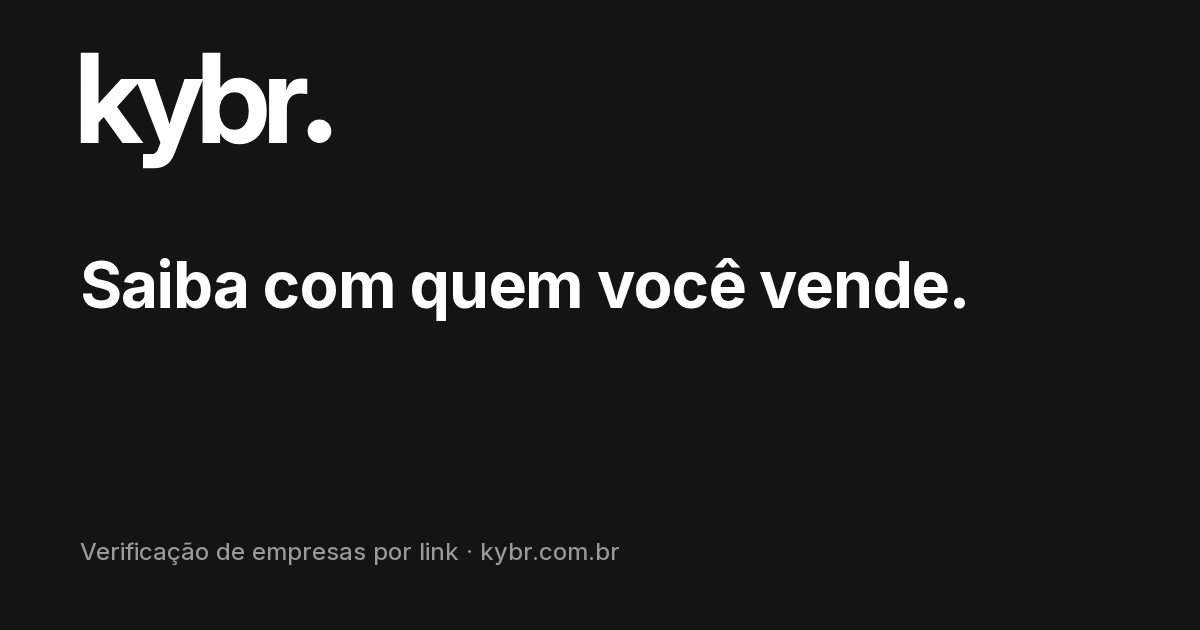
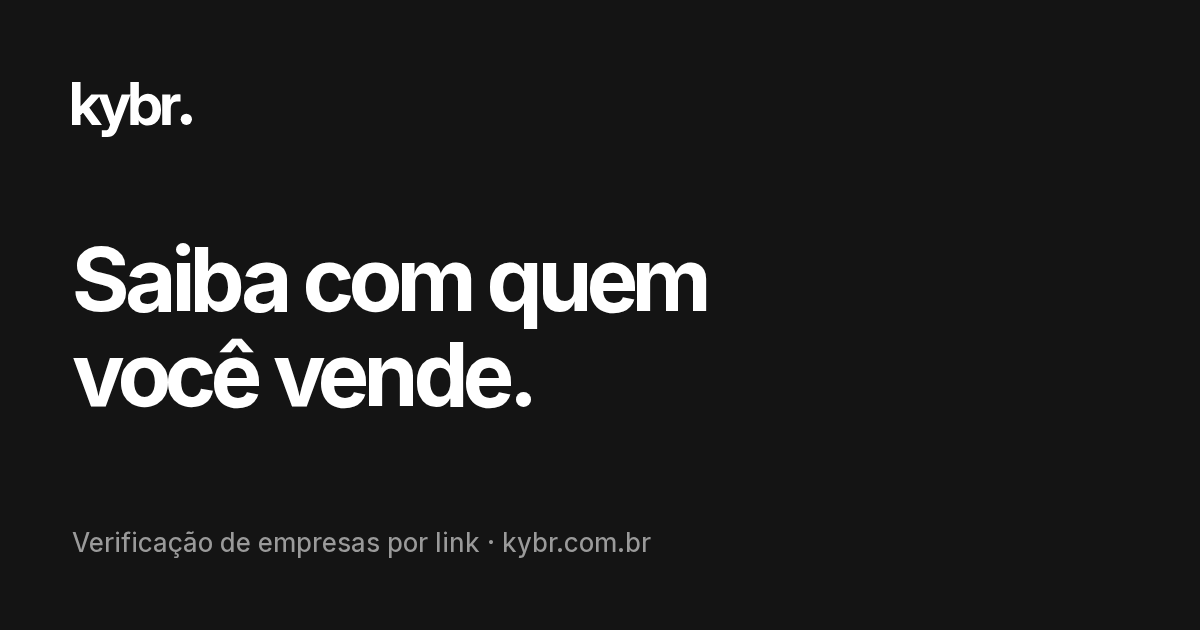
style: re-render the share image to the Aplicações board's hierarchy
Review B-002 (the user's decision: re-render to match the board). The
headline now dominates and the wordmark is a small mark, as on the
Aplicações board's "Imagem de compartilhamento · 1200×630".

- public/brand/kybr-og-1200x630.png (30.4 kB; was 24.9): ink #141414; the
  white wordmark at 120 px wide (≈ 10 % of the card, the board's
  proportion), glyph-tight at x = 72, y = 82; "Saiba com quem / você
  vende." as Display (Inter 700) on two lines, 88 px, -6 % tracking, line
  height 1.08; "Verificação de empresas por link · kybr.com.br" in dark
  muted #9a9a9a, 26 px, 72 px from the bottom. Same fallback render as B3
  (the repo's Inter woff2 and the kit's wordmark SVG recoloured white,
  screenshotted with Playwright at 1200 × 630); only the PNG is committed.
  kybr-logo/ still has no exported share image.
- tests/share-image-file.test.ts: the file is a 1200 × 630 PNG of at most
  60 kB (green before and after; it guards the target the lead set).
- The path, size and metadata are unchanged.

Convention citations:
- identity.md › Applications › Share image; the Aplicações and Tipografia
  boards (Display 700, tight tracking, two lines)

Tests: 1719 passed, 0 failed (pnpm test; 2 new)

Claude-Session: https://claude.ai/code/session_01NLYCTJNaUrsEhexFmMKwZ1

diff --git a/tests/share-image-file.test.ts b/tests/share-image-file.test.ts
@@ -1,0 +1,21 @@
+// @vitest-environment node
+import { readFileSync } from "node:fs";
+
+import { describe, expect, it } from "vitest";
+
+// Brand v1 B3 / review B-002: the panel's share image is a static
+// 1200 × 630 PNG, small enough for every link preview.
+
+const png = readFileSync("public/brand/kybr-og-1200x630.png");
+
+describe("the share image file", () => {
+  it("is a 1200 × 630 PNG", () => {
+    expect(png.subarray(1, 4).toString("ascii")).toBe("PNG");
+    expect(png.readUInt32BE(16)).toBe(1200);
+    expect(png.readUInt32BE(20)).toBe(630);
+  });
+
+  it("weighs at most 60 kB", () => {
+    expect(png.length).toBeLessThanOrEqual(60 * 1024);
+  });
+});
